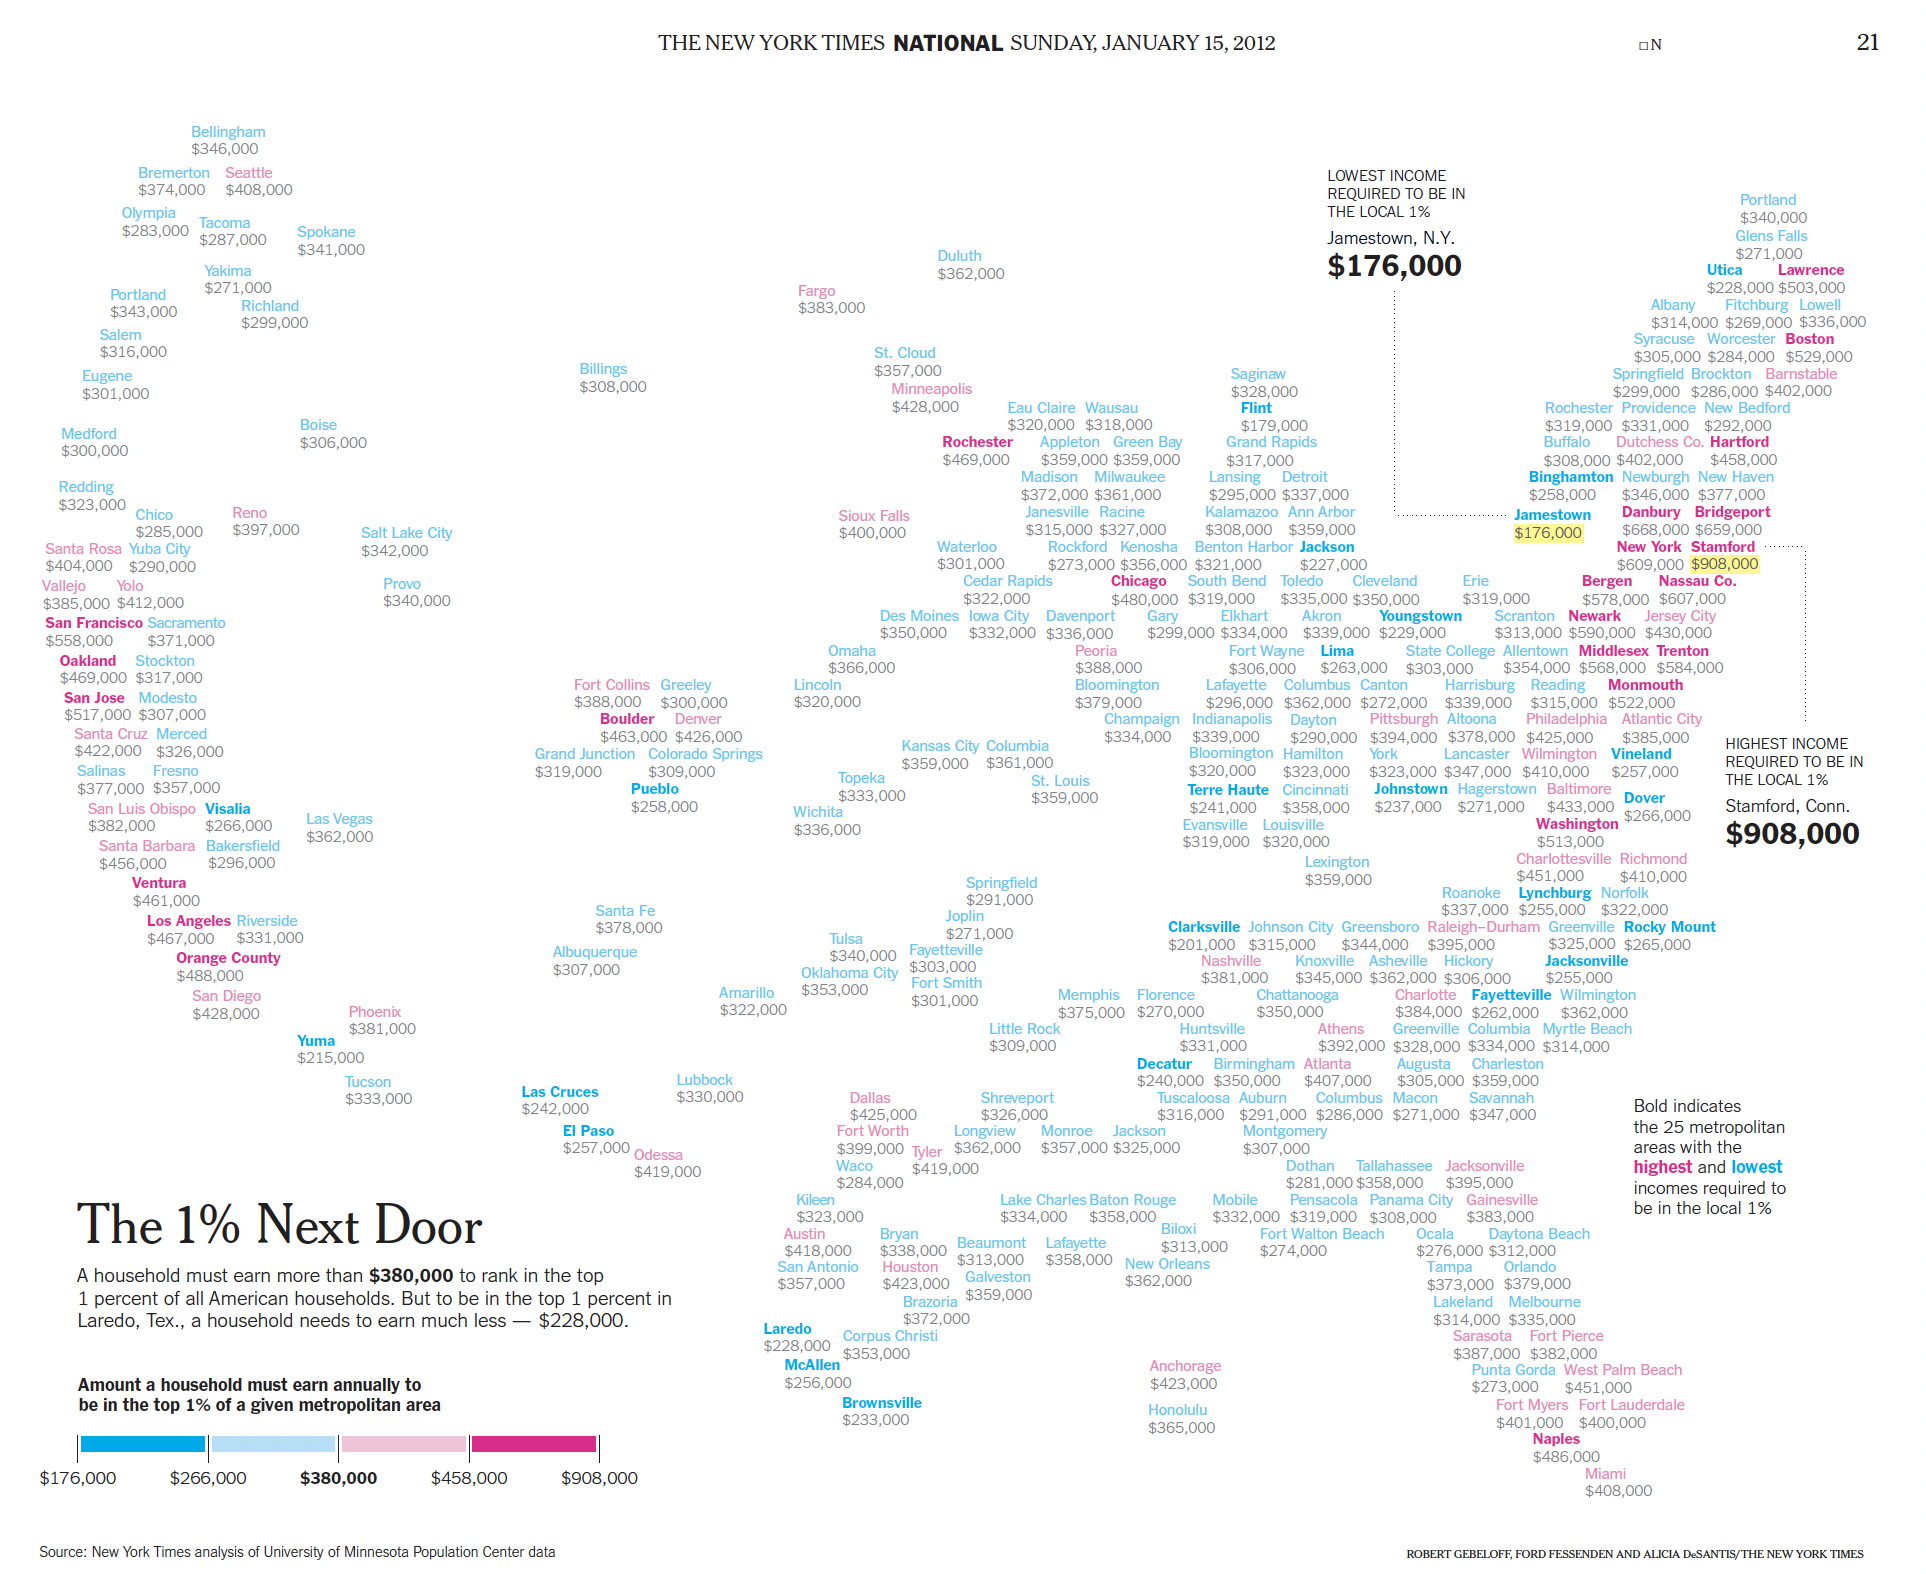
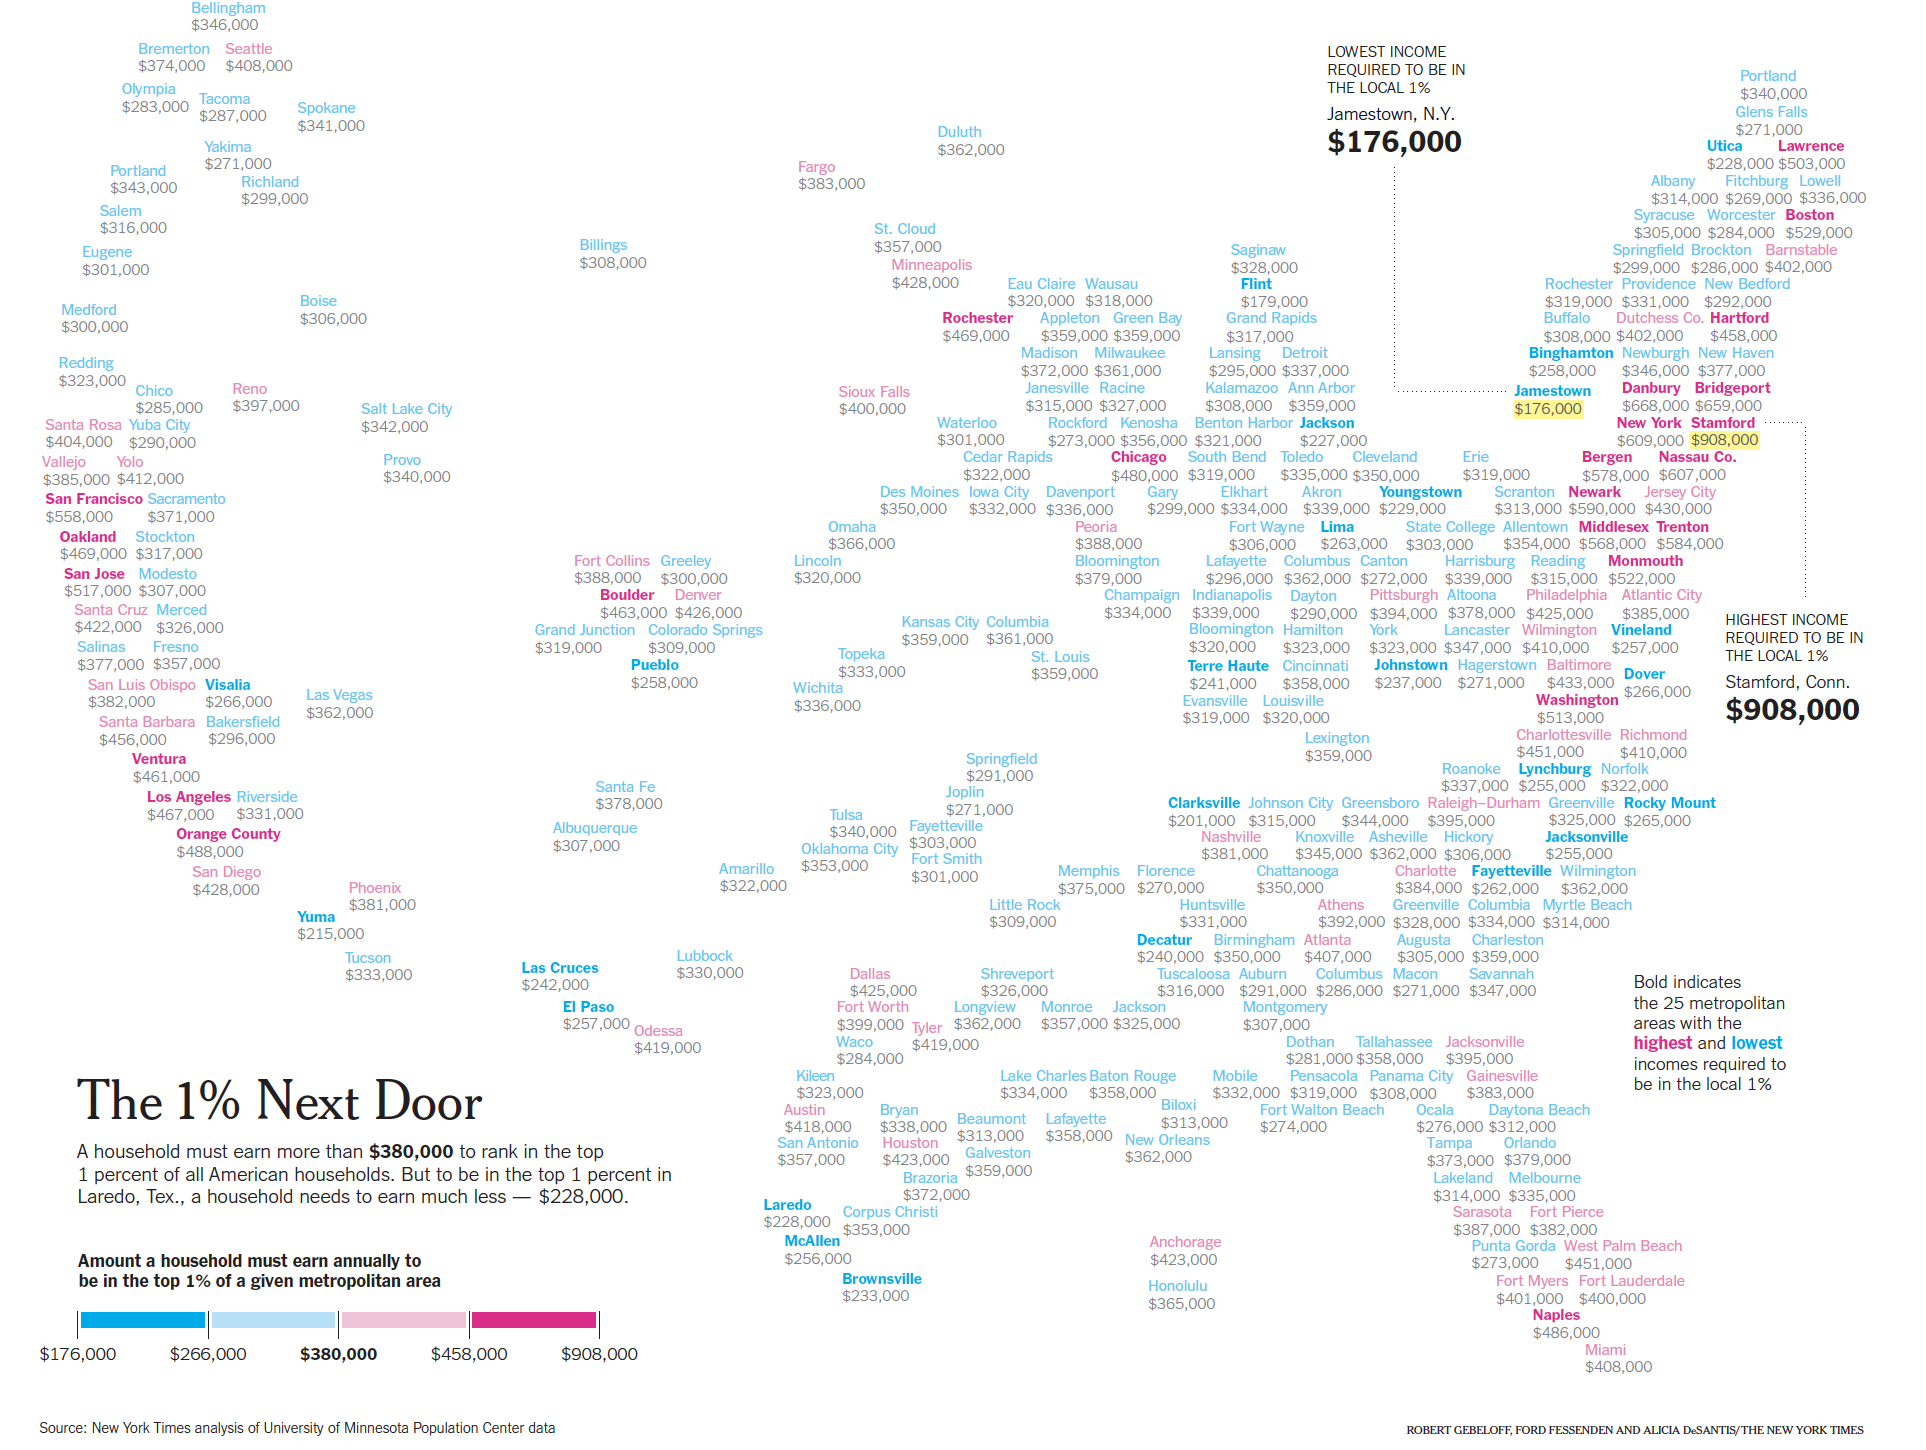
things

diff --git a/philanthropy/top1pctincome.html b/philanthropy/top1pctincome.html
@@ -2,14 +2,18 @@
 <html lang="en">
 <head>
   <meta charset="UTF-8">
-  <link rel="stylesheet" href="style.css" />
+  <title>Responsive Image</title>
   <style>
-    body{background: white}
+    .responsive-img {
+      width: 100%;
+      height: auto; /* This preserves the aspect ratio */
+      display: block; /* Removes unwanted spacing */
+    }
   </style>
 </head>
 <body>
-  <div class="image-container smaller">
-    <img src="top1pctincome.png">
-  </div>
+
+  <img src="top1pctincome.png"  class="responsive-img">
+
 </body>
 </html>
